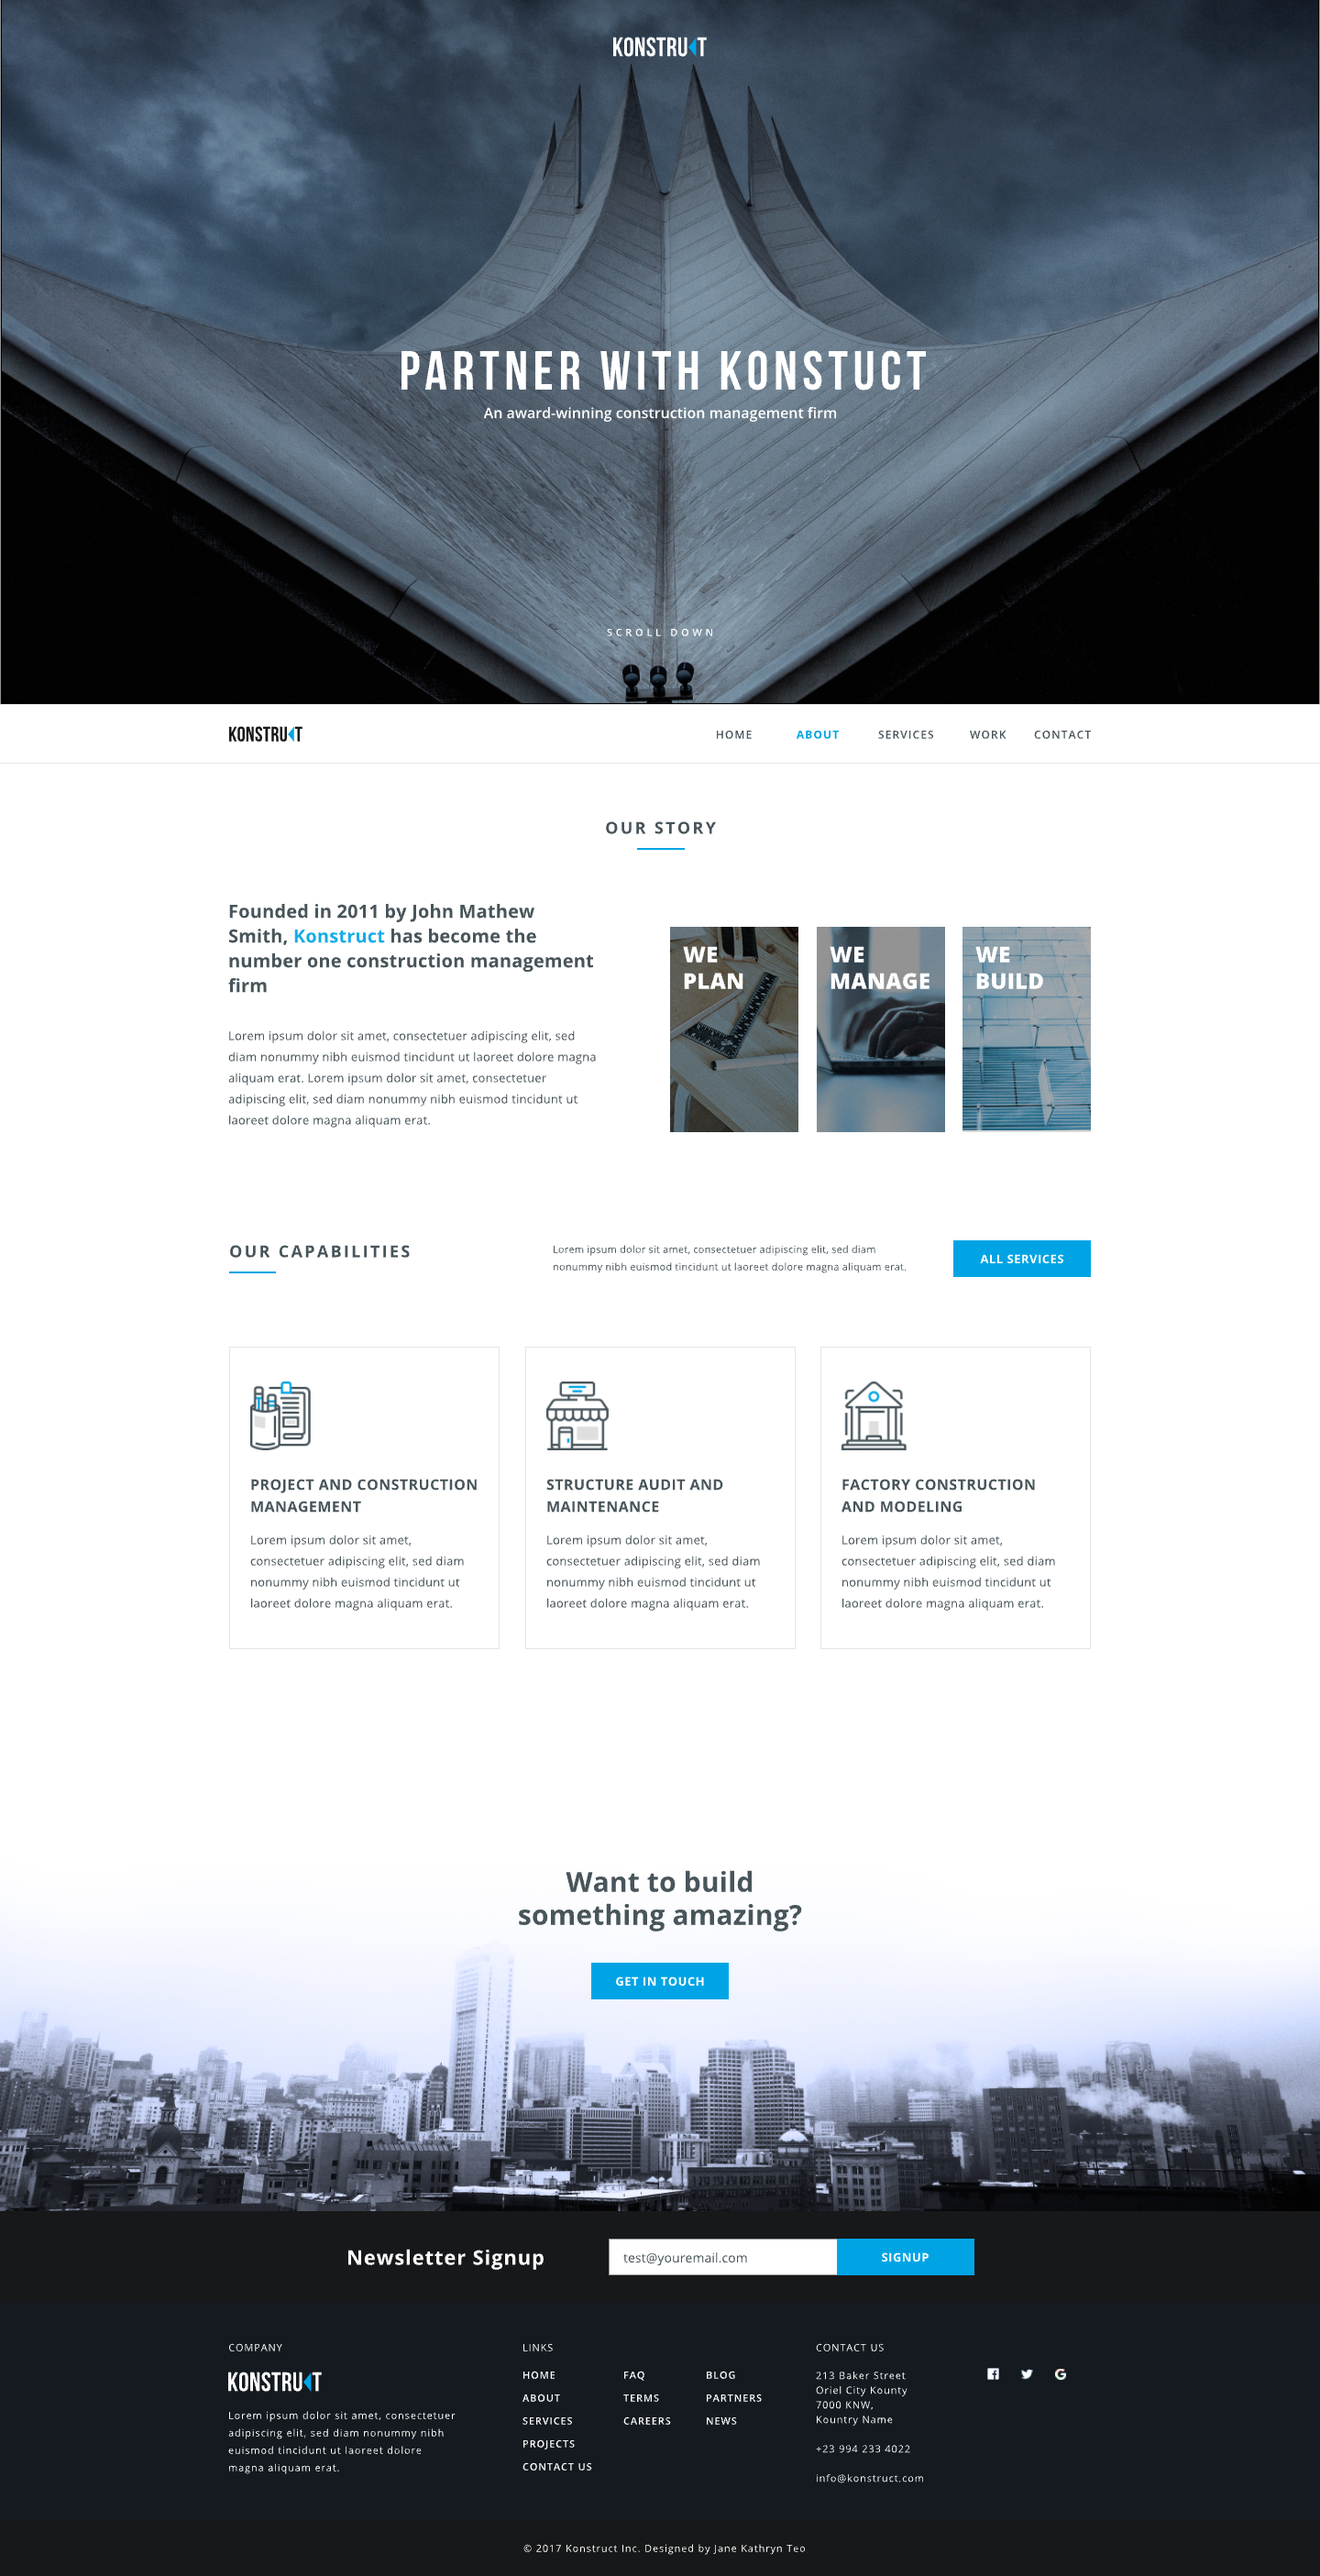
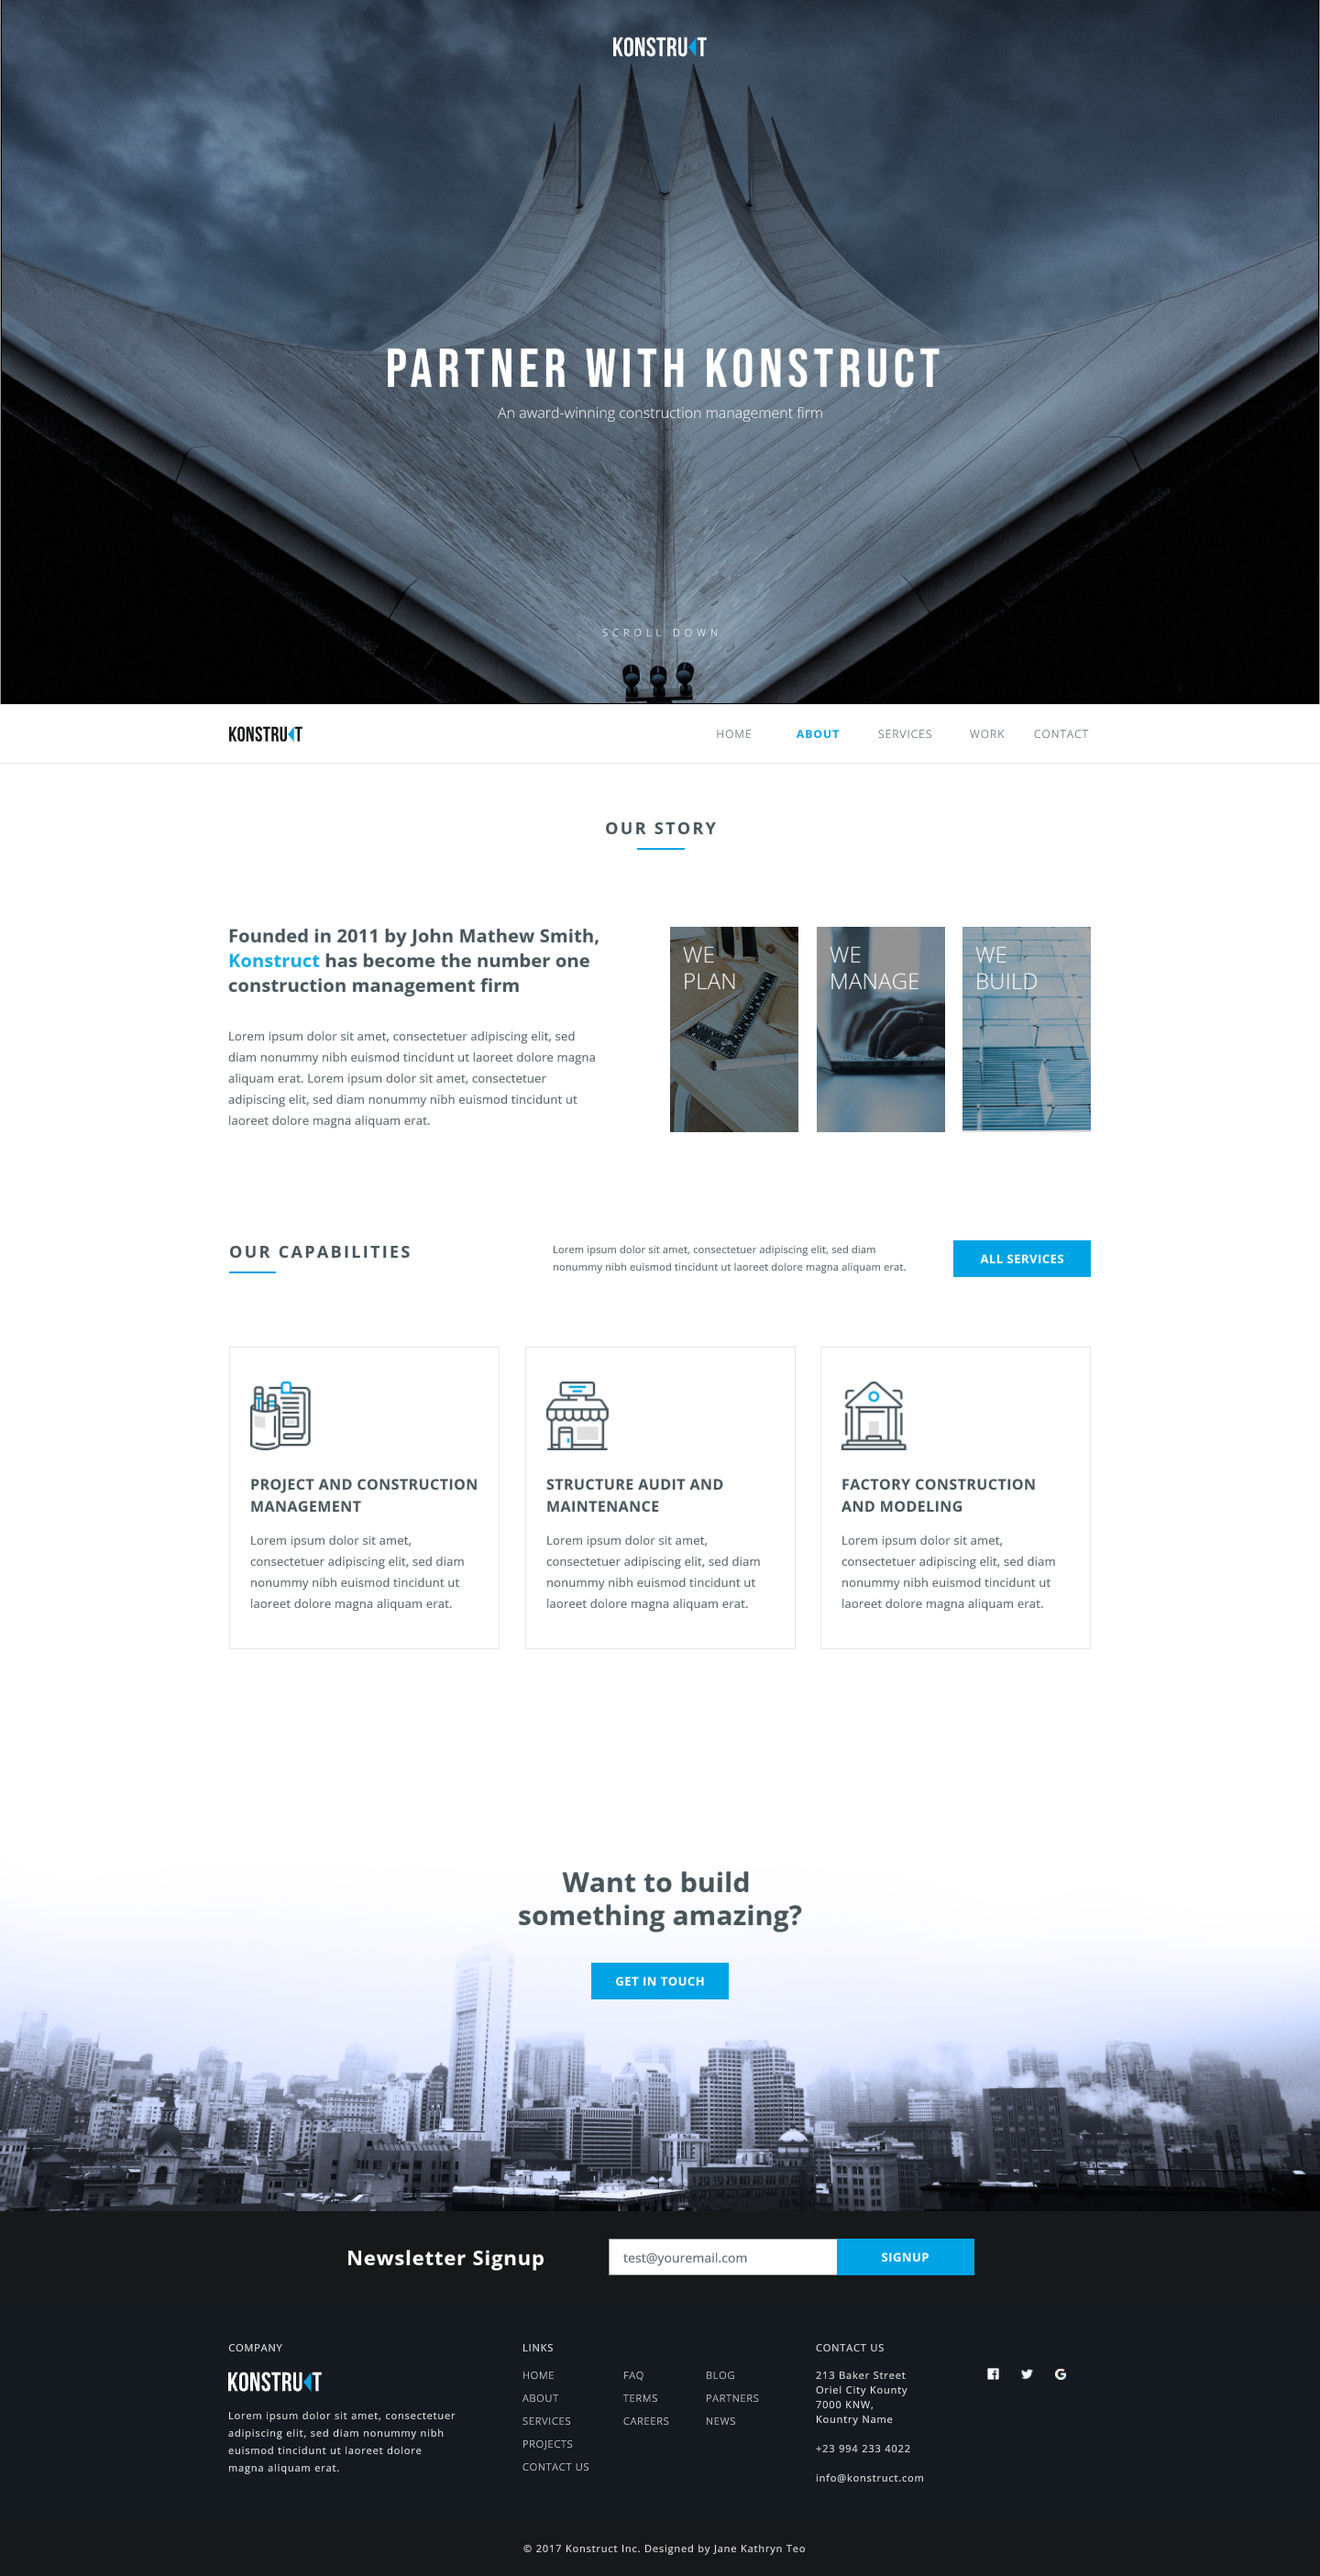
Navbar css completed. Images, cssreset, variables added.

diff --git a/styles/main.css b/styles/main.css
@@ -1,0 +1,192 @@
+@import 'normalize.css';
+@import 'cssreset.css';
+@import 'variables.css';
+@import url('https://fonts.googleapis.com/css2?family=Open+Sans:ital,wdth,wght@0,75..100,300..800;1,75..100,300..800&display=swap');
+@import url('https://fonts.googleapis.com/css2?family=Bebas+Neue&display=swap');
+
+body {
+	font-family: var(--basic-font-family);
+}
+.container {
+	width: 100%;
+	margin: 0 auto;
+}
+.container--large {
+	max-width: 1440px;
+}
+.container--small {
+	max-width: 940px;
+}
+.header {
+	background-image: url("../img/bg.png");
+	background-attachment: scroll;
+	background-size: cover;
+	height: 769px;
+	padding-top: 39px;
+}
+.header__inner {
+	text-align: center;
+}
+.logo-white {
+	display: block;
+}
+.logo-white--mb-header {
+	margin-bottom: 305px;
+}
+.header__title {
+	color: #fff;
+	font-family: 'Bebas Neue', sans-serif;
+	font-size: 60px;
+	font-weight: 400;
+	letter-spacing: 5.7px;
+	text-transform: uppercase;
+	margin-left: 10px;
+}
+.header__subtitle {
+	display: block;
+	color: white;
+	font-size: 16px;
+	font-weight: 300;
+	line-height: 22px;
+	letter-spacing: 0.65px;
+	margin-bottom: 218px;
+}
+.header__scroll {
+	color: white;
+	font-size: 11px;
+	font-weight: 100;
+	line-height: 15px;
+	letter-spacing: 5px;
+	text-transform: uppercase;
+}
+.nav-section {
+	border: 1px solid #e6e6e6;
+	background: rgb(255, 255, 255);
+}
+.nav-section__inner {
+	display: flex;
+	justify-content: space-between;
+	align-items: center;
+	padding: 21px 0 23px;
+}
+.logo-black {
+	display: flex;
+	align-items: center;
+}
+.logo-black__img {
+}
+.nav-menu {
+}
+.nav-menu__list {
+	display: flex;
+	justify-content: space-evenly;
+	gap: 40.5px;
+}
+.nav-menu__link {
+	color: var(--nav-link-color);
+	font-size: 12px;
+	font-weight: 300;
+	line-height: 16px;
+	letter-spacing: 1.09px;
+	text-transform: uppercase;
+}
+.nav-menu__link--active {
+	color: var(--accent-color-1);
+	font-weight: 700;
+}
+.about {
+}
+.about__inner {
+}
+.section-title {
+}
+.section-title__text {
+}
+.about__text {
+}
+.about__text-upper {
+}
+.about__text-lower {
+}
+.about__items-list {
+}
+.about__item {
+}
+.about__item-title {
+}
+.services {
+}
+.services__inner {
+}
+.services__header {
+}
+.services__section-title {
+}
+.services__header-text {
+}
+.services__header-button {
+}
+.services__cards {
+}
+.services__card {
+}
+.services__card-img {
+}
+.services__card-title {
+}
+.services__card-text {
+}
+.get-in-touch {
+}
+.get-in-touch__title {
+}
+.get-in-touch__btn {
+}
+.newsletter {
+}
+.newsletter__inner {
+}
+.newsletter__title {
+}
+.newsletter__input-email {
+}
+.newsletter-btn {
+}
+.footer {
+}
+.footer__inner {
+}
+.footer__company {
+}
+.footer__company-title {
+}
+.footer__company-text {
+}
+.footer__nav {
+}
+.footer__nav-title {
+}
+.footer__nav-wrapper {
+}
+.footer__nav-item {
+}
+.footer__contact-us {
+}
+.footer__contact-us-title {
+}
+.footer__contact-us-address {
+}
+.footer__contact-us-phone-number {
+}
+.footer__contact-us-e-mail {
+}
+.social-media-links {
+}
+.social-media-links__link {
+}
+.social-media-links__icon {
+}
+.footer__copyright {
+}
+.footer__copyright__text {
+}

diff --git a/index.html b/index.html
@@ -4,15 +4,14 @@
 	<meta charset="UTF-8">
 	<meta name="viewport" content="width=device-width, initial-scale=1.0">
 	<title>Konstruct</title>
-	<link rel="stylesheet" href="styles/normalize.css">
 	<link rel="stylesheet" href="styles/main.css">
 </head>
 <body>
 
 <header class="header">
-	<div class="container-large">
+	<div class="container container--large">
 		<div class="header__inner">
-			<a class="logo-white" href="#">
+			<a class="logo-white logo-white--mb-header" href="#">
 				<img class="logo-white__img" src="img/logo-white.svg" alt="Logotype">
 			</a>
 			<h2 class="header__title">Partner with Konstruct</h2>
@@ -23,7 +22,7 @@
 </header>
 
 <div class="nav-section">
-	<div class="container-small">
+	<div class="container container--small">
 		<div class="nav-section__inner">
 			<a class="logo-black" href="#">
 				<img class="logo-black__img" src="img/logo-black.svg" alt="Logotype">
@@ -34,7 +33,7 @@
 						<a class="nav-menu__link" href="#">Home</a>
 					</li>
 					<li class="nav-menu__list-item">
-						<a class="nav-menu__link--active" href="#">About</a>
+						<a class="nav-menu__link nav-menu__link--active" href="#">About</a>
 					</li>
 					<li class="nav-menu__list-item">
 						<a class="nav-menu__link" href="#">Services</a>
@@ -52,7 +51,7 @@
 </div>
 
 <section class="about">
-	<div class="container-small">
+	<div class="container container--small">
 		<div class="about__inner">
 			<div class="section-title">
 				<h2 class="section-title__text">Our story</h2>
@@ -77,7 +76,7 @@
 </section>
 
 <section class="services">
-	<div class="container-small">
+	<div class="container container--small">
 		<div class="services__inner">
 			<div class="services__header">
 				<h2 class="section-title services__section-title">Our capabilities</h2>
@@ -111,7 +110,7 @@
 </section>
 
 <section class="newsletter">
-	<div class="container-small">
+	<div class="container container--small">
 		<div class="newsletter__inner">
 			<h2 class="newsletter__title">Newsletter Signup</h2>
 			<form action="#" method="post">
@@ -122,10 +121,8 @@
 	</div>
 </section>
 
-<!-- Выше обработано -->
-
 <footer class="footer">
-	<div class="container-small">
+	<div class="container container--small">
 		<div class="footer__inner">
 			<div class="footer__company">
 				<h2 class="footer__company-title">Company</h2>

diff --git a/styles/cssreset.css b/styles/cssreset.css
@@ -1,0 +1,33 @@
+html {
+  box-sizing: border-box;
+}
+
+*, *::before, *::after {
+  box-sizing: inherit;
+}
+
+body, h1, h2, h3, h4, h5, h6, p, ul, ol, figure {
+  margin: 0;
+  padding: 0;
+}
+
+img, iframe {
+  max-width: 100%;
+  height: auto;
+}
+
+ul, ol {
+  list-style: none;
+}
+
+a {
+  text-decoration: none;
+  color: inherit;
+}
+
+button, input, textarea {
+  font-family: inherit;
+  color: inherit;
+  background: none;
+  border: none;
+}

diff --git a/styles/variables.css b/styles/variables.css
@@ -1,0 +1,5 @@
+:root {
+	--basic-font-family: 'Open Sans', sans-serif;
+	--nav-link-color: #48555b;
+	--accent-color-1: #16ACE8;
+}
